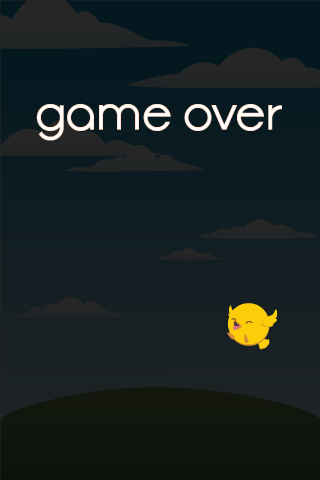
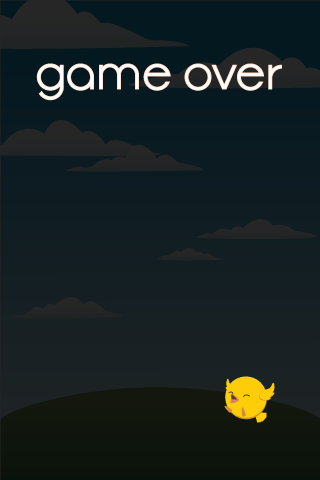
added a leader scoreboard using a plist. still can't change it yet, but it at least shows up

diff --git a/Projectfiles/GameOver.m b/Projectfiles/GameOver.m
@@ -41,6 +41,7 @@ CGFloat screenHeight;
 
     if( (self=[super init]))
     {
+        CCLOG(@"entering game over!");
         /*
          generalized dimensions
          */
@@ -48,6 +49,45 @@ CGFloat screenHeight;
         screenWidth = screenRect.size.width;
         screenHeight = screenRect.size.height;
         
+        /*
+         Checking for high score
+         */
+        
+        //this reads the plist and fetches the three highest scores already stored
+        NSMutableArray *highScoresArray = [NSMutableArray arrayWithContentsOfFile: @"HighScores.plist"];
+        NSLog(@"array = %@", highScoresArray);
+        int arraySize = [highScoresArray count];
+        
+        
+        //this will show the plist on the game over screen
+        
+        
+        /*for (int i = 0; i < arraySize; i++) {
+            NSInteger j = i + 1;
+            int oldHighScore = [highScoresArray objectAtIndex: j];
+            if (highScore > oldHighScore) {
+                NSInteger newHigh = highScore;
+                [highScoresArray replaceObjectAtIndex:j withObject: newHigh];
+            }
+        }
+                            
+                            /* for reference
+                             for(int i = 0; i < [birds count]; i++)
+                            {
+                                NSInteger j = i;
+                                birdPtr = [birds objectAtIndex:j];
+                                if (birdPtr.isFalling) {
+                                    /*birdPtr.position = ccp(birdPtr.position.x, birdPtr.position.y - birdPtr.fallingSpeed*dt - birdPtr.fallingSpeed*birdPtr.fallingAccel*dt*dt);
+                                    birdPtr.position = ccp(birdPtr.position.x, birdPtr.position.y - birdPtr.fallingSpeed*dt - currentSpeed*dt*dt);
+                                } else {
+                                    birdPtr.position = ccp(birdPtr.position.x, birdPtr.position.y + birdPtr.fallingSpeed*dt + birdPtr.fallingSpeed*(birdPtr.fallingAccel/3)*dt*dt);
+                                }
+                                
+                            }*/
+        
+                
+
+    
         
         /*
          setting up the game over screen and the menu option to restart
@@ -71,29 +111,39 @@ CGFloat screenHeight;
         [self addChild: gameOverMenu];
         
         /*
-         setting up high score
+         setting up leader scoreboard
          */
         
-        /*self.totalScore = newScore;*/
-        /*self.position = ccp(320/6*5, 465);*/
-        NSString * scoreString = [[NSString alloc] initWithFormat:@"score\n %d", highScore];
+        NSString* leaderString = [[NSString alloc] initWithFormat:@"all-time high scores\n %@: %@\n %@: %@ \n %@: %@",
+                                  [highScoresArray objectAtIndex: 0],[highScoresArray objectAtIndex: 1],
+                                  [highScoresArray objectAtIndex: 2],[highScoresArray objectAtIndex: 3],
+                                  [highScoresArray objectAtIndex: 4],[highScoresArray objectAtIndex: 5]];
+        NSLog(@"%@",leaderString);
+        CCLabelTTF *leaderLabel = [CCLabelTTF labelWithString: leaderString
+                                                     fontName: @"Marker Felt"
+                                                     fontSize: 20];
+        
+        leaderLabel.color = ccc3(255, 255, 255);
+        CCSprite *leaderSprite = [CCSprite spriteWithSpriteFrame : leaderLabel.displayFrame];
+        leaderLabel.position = ccp(screenWidth/2, screenHeight/2+screenHeight/9);
+        [self addChild: leaderLabel];
+        [self addChild: leaderSprite];
+        
+        
+        /*
+         setting up your high score
+         */
+        
+        NSString * scoreString = [[NSString alloc] initWithFormat:@"your high score\n %d", highScore];
         CCLabelTTF *scoreLabel = [CCLabelTTF labelWithString:scoreString
                                              fontName:@"Marker Felt"
                                              fontSize:20];
         scoreLabel.color = ccc3(255, 255, 255);
-        scoreLabel.position = ccp(320/2, 310);
-        /*CCSprite *scoreSprite = [CCSprite spriteWithSpriteFrame : self.scoreLabel.displayFrame];*/
+        scoreLabel.position = ccp(screenWidth/2, screenHeight/2-screenHeight/10);
         [self addChild:scoreLabel];
-        /*[self addChild:self.scoreSprite];*/
-        
-        
         
         // position your pause menu in the center of your layer
-        gameOverMenu.position = ccp(screenWidth/2, screenHeight/2);
-        
-        
-        
-        
+        gameOverMenu.position = ccp(screenWidth/2, screenHeight/2-75);
         
     }
     return self;

diff --git a/Projectfiles/Bounce.m b/Projectfiles/Bounce.m
@@ -250,21 +250,17 @@ Lives *livesDisplay;
      */
     if (currentBird.isFalling && currentBird.position.y < (currentTrampoline.position.y-(currentTrampoline.trampolineSprite.contentSize.height/2)) /*currentBird.position.y < 420/25*/) {
             [self makeBird];
-    /*}*/
     
     /*
      Lose a life if a bird falls past this point
      */
-    /*if (currentBird.isFalling && currentBird.position.y < 420/25) {*/
-        
-        // if lives = 0, then jump to Game Over screen
-        
+            
         // update lives
         [self removeChild:livesDisplay];
         livesDisplay = [[Lives alloc] initWithLives:livesDisplay.totalLives-1];
         [self addChild:livesDisplay];
 
-    
+        // if lives = 0, then jump to Game Over screen
         if (livesDisplay.totalLives == 0) {
             [[CCDirector sharedDirector] replaceScene: (CCScene*)[[GameOver alloc] initWithScore: scoreDisplay.totalScore]];
         }
